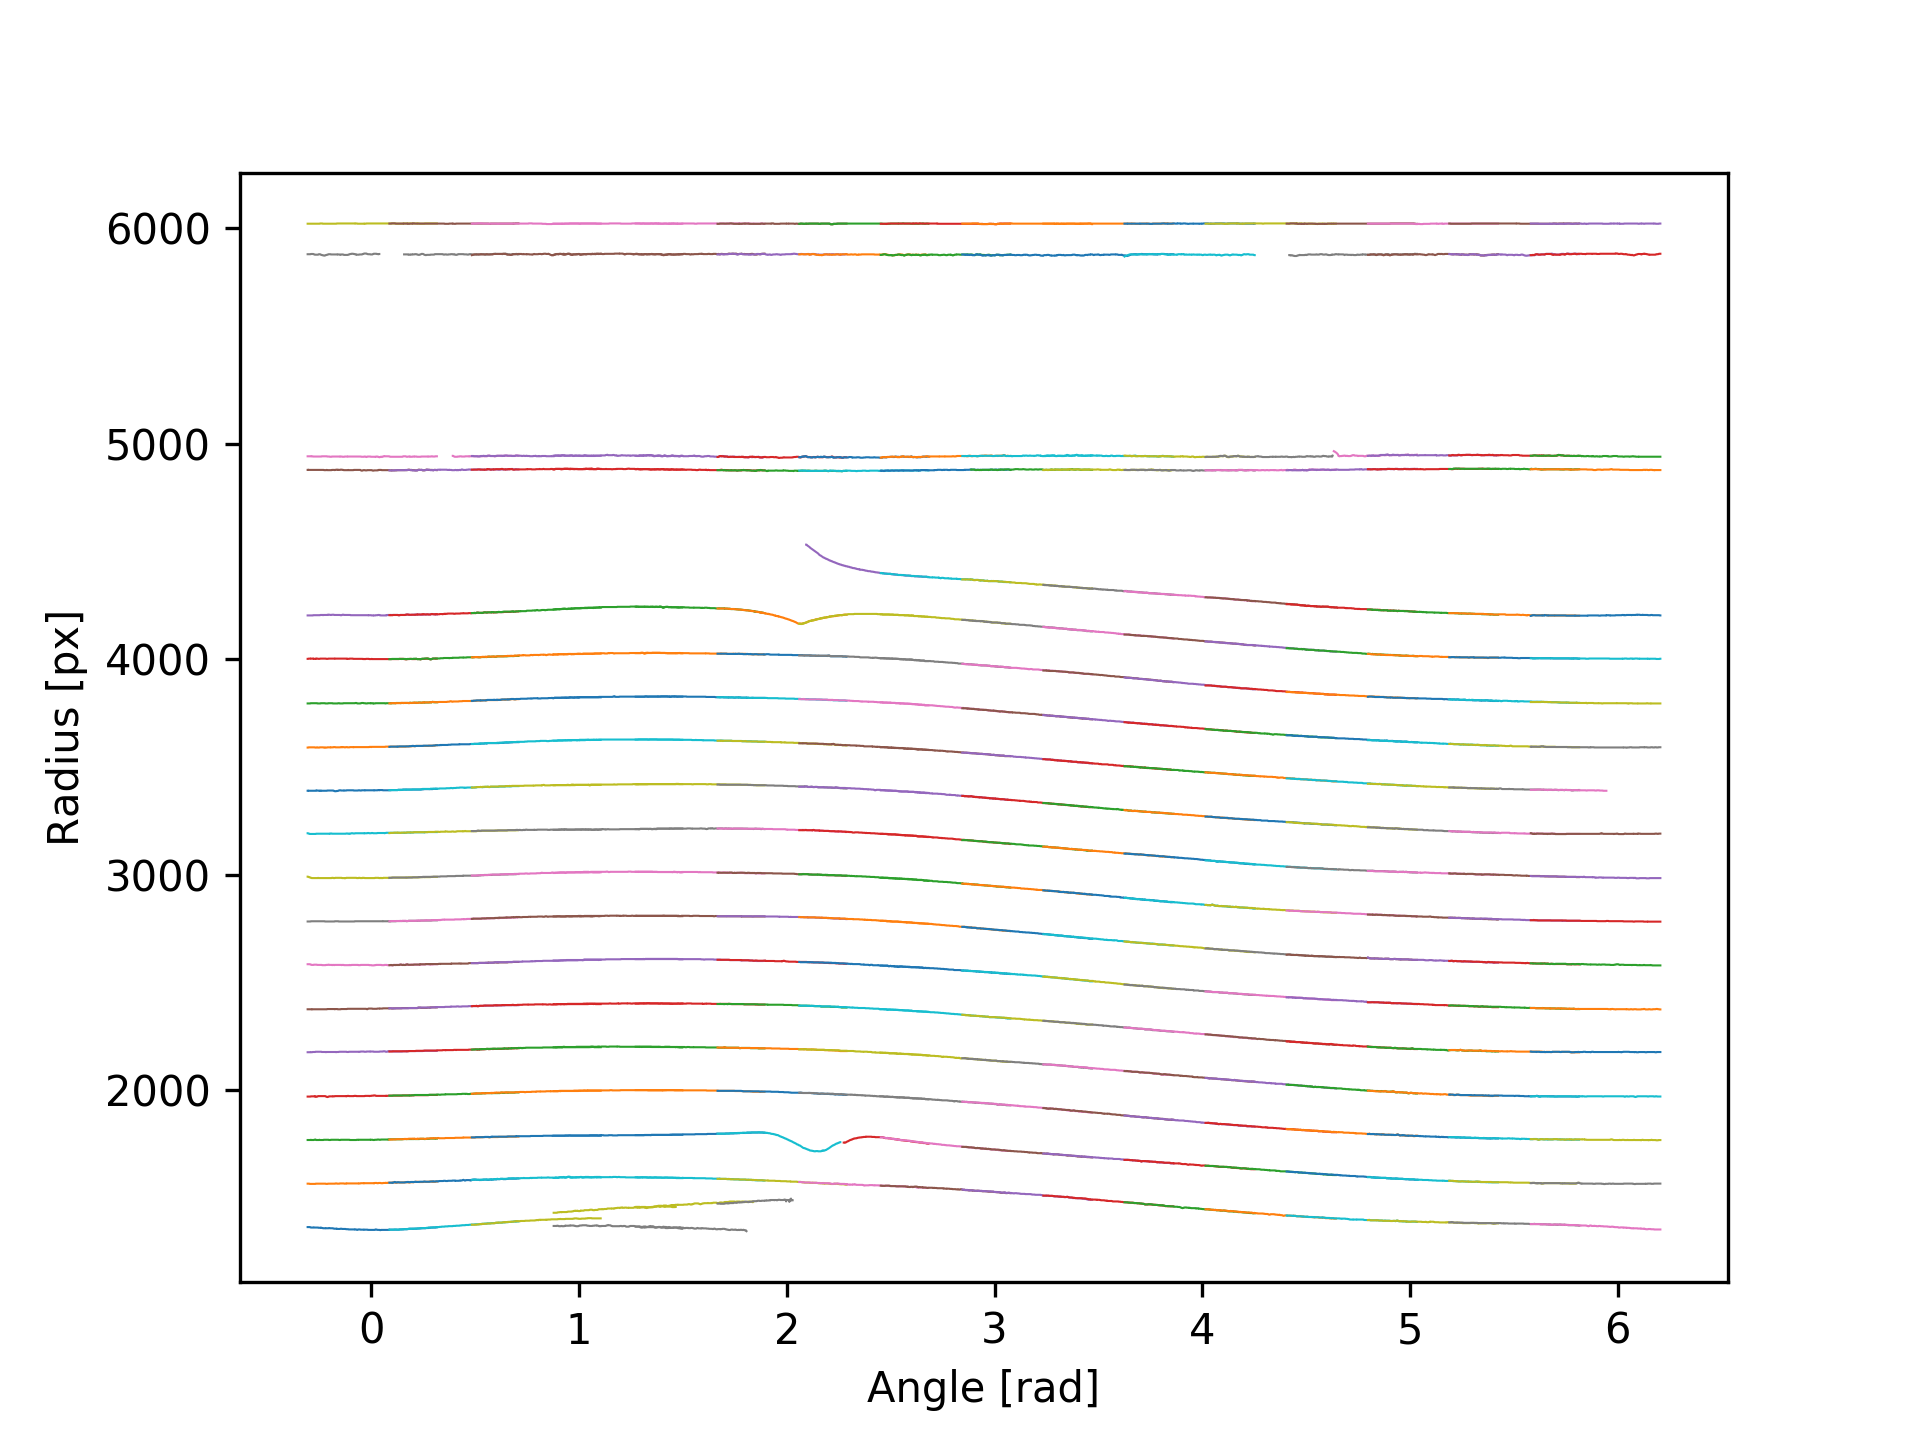
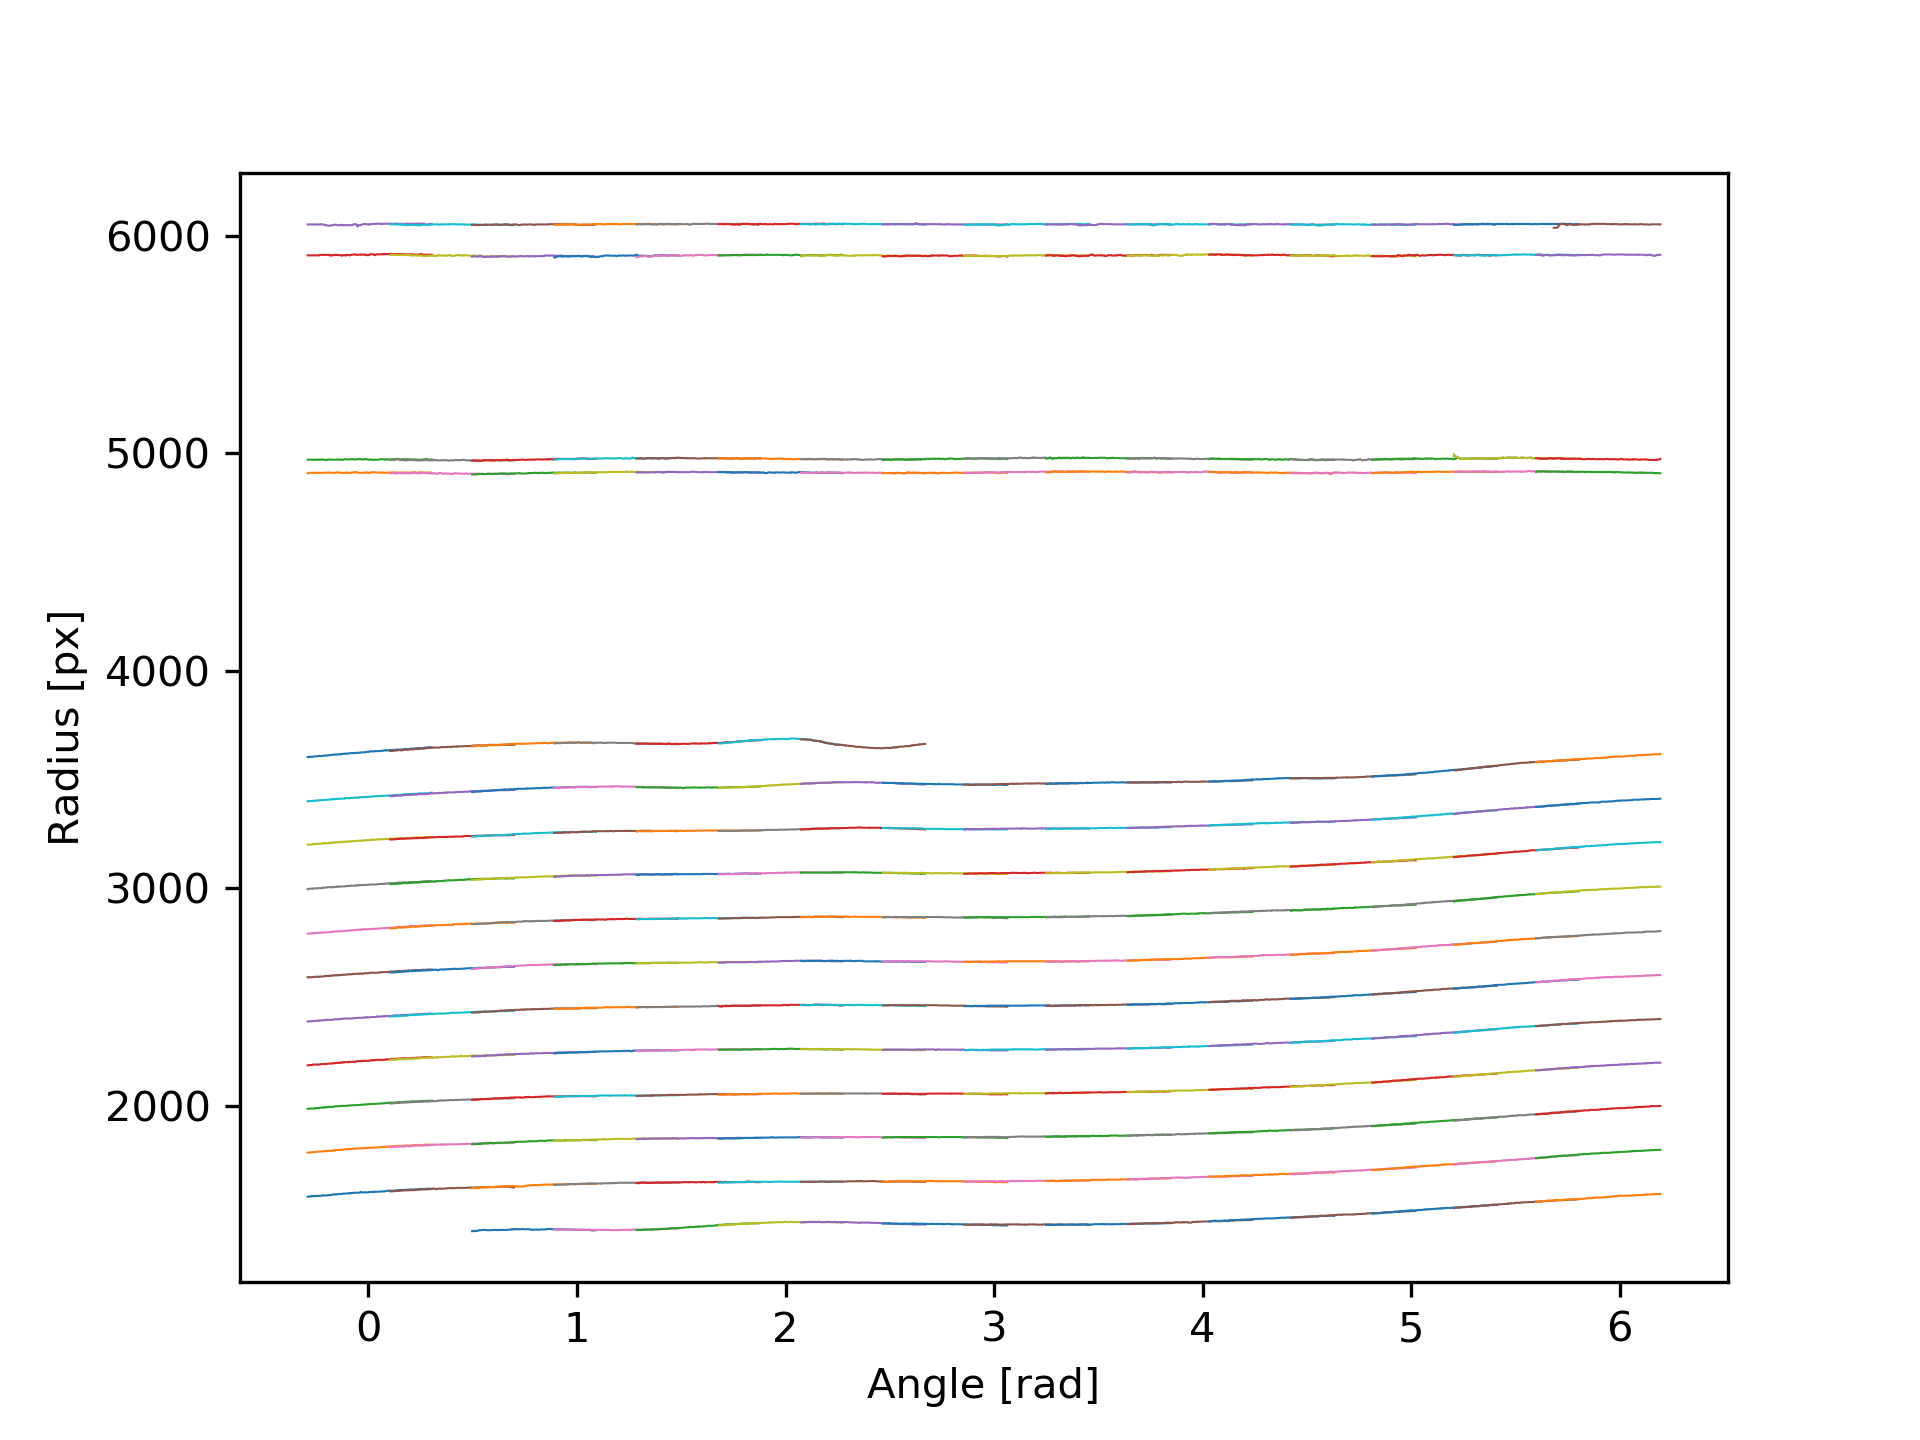
Misc changes

diff --git a/sectorImage/core/stitcher.py b/sectorImage/core/stitcher.py
@@ -147,6 +147,7 @@ class Stitcher:
         plot = True
         segments = [Segment(*coords, identity=i) for i, coords in enumerate(segments)]
         # Calibration piece
+        """
         calib_rs = np.empty(0)
         calib_phis = np.empty(0)
         for i in range(len(self.fns)):
@@ -154,7 +155,9 @@ class Stitcher:
             calib_seg = max(img_segs, key=operator.attrgetter('bandNum'))
             calib_rs = np.append(calib_rs, calib_seg.rs)
             calib_phis = np.append(calib_phis, calib_seg.phis)
-        calib_size_px = np.mean(calib_rs)
+        calib_size_px = np.mean(calib_rs)"""
+
+        calib_size_px = np.mean(np.array([x[2] for x in self.calibration]))
 
         # Dimensions of the calibration piece
         calib_size_mm = self.env.calib_size_mm  # Outer radius of calibration piece
@@ -282,7 +285,7 @@ class Stitcher:
                 compP = np.append(compP, phi)
             order = np.argsort(compP)
             compP = compP[order]
-        scale = 1
+        # scale = 1
         compR = compR[order] * scale
         compP = chirality * compP[::chirality]
         if self.startAngle > compP[0] + (2 * np.pi):

diff --git a/sectorImage/core/midpoints.py b/sectorImage/core/midpoints.py
@@ -156,6 +156,7 @@ class Walker:
         terminations = []
         bands_scanned = 0
         outruns = 0
+        maxdrops = 10
 
         while head[1] < skeleton.shape[1] - 1:
             current = []
@@ -185,9 +186,10 @@ class Walker:
                         high = False
 
                 if edges > 1:
-                    # print('line split termination at', head)
-                    terminations.append(head[:])
-                    break
+                    #print('line split termination at', head)
+                    # terminations.append(head[:])
+                    pass
+                    # break
                 # Start by scanning to the right
                 parity = 1
                 head_ref = head[1]
@@ -203,7 +205,7 @@ class Walker:
                 if n == maxwidth:
                     head[1] = head_ref
                     termination += 1
-                    if termination == 1:
+                    if termination == maxdrops:
                         # print('line outrun termination at ', head)
                         terminations.append(head[:])
                         break

diff --git a/sectorImage/core/image.py b/sectorImage/core/image.py
@@ -163,9 +163,12 @@ class Image:
         # print('Thresholding')
 
         # Threshold to 30% for noise reduction
-        proc *= proc * (1.0 / proc.max())
-        thresh = 0.7
-        thresh = 0.15
+        #proc *= proc * (1.0 / proc.max())
+        # proc *= (1.0 / proc.max())
+        proc_mean = np.mean(proc)
+        proc_std = np.std(proc)
+        thresh = proc_mean + 0.1 * proc_std
+        #thresh = 0.1
         cv2.threshold(src=proc, dst=proc, thresh=thresh, maxval=1, type=cv2.THRESH_BINARY)
 
         # print('Morphology')
@@ -202,7 +205,7 @@ class Image:
             print('Plotting')
             fig = plt.figure()
             ax = fig.add_subplot(111)
-            ax.imshow(start_search)
+            ax.imshow(proc)
             ax.set_aspect('auto')
             ax.set_xlabel('Radius [px]')
             ax.set_ylabel('Angle [idx]')

diff --git a/sectorImage/core/singleImage.py b/sectorImage/core/singleImage.py
@@ -4,6 +4,7 @@ from . import lineParser as lp
 from . import midpoints
 import numpy as np
 import time
+import matplotlib.pyplot as plt
 
 
 class SingleImage:
@@ -67,6 +68,12 @@ class SingleImage:
             parametrized coordinates of the band midpoints
         """
         self.walker = midpoints.Walker(self.features)
+        """fig = plt.figure()
+        ax = fig.add_subplot(111)
+        ax.imshow(self.walker.skeleton)
+        ax.set_aspect('auto')
+        figfn = self.fn.split('.')[0].split('/')[-1] + '.png'
+        fig.savefig(figfn, dpi=1200)"""
         self.r, self.phi = self.walker.walkSkeleton(plot=False, maxwidth=10,)
         return self.r, self.phi
 

diff --git a/hardware/stepper.py b/hardware/stepper.py
@@ -115,12 +115,14 @@ class Stepper:
         return
 
     def continuousRotation(self, t, nTurn=2):
+        self.stepper.enable()
         totalSteps = self.normTurn * self.mode
         speed = int(totalSteps / t)
         self.stepper.set_max_velocity(speed)
         self.stepper.set_steps(totalSteps * nTurn)
         time.sleep(t * nTurn)
         self.stepper.set_max_velocity(self.vmax)
+        self.stepper.disable()
         return
 
     def IPCcallback(self, *params):

diff --git a/applied/sequence.py b/applied/sequence.py
@@ -195,8 +195,10 @@ class Sequence:
     def shuffle(self):
         import random
         nsteps = random.uniform(100, 1600)
+        self.stp.stepper.enable()
         self.stp.stepper.set_steps(int(nsteps))
         time.sleep(2)
+        self.stp.stepper.disable()
 
     def storeSpiral(self, spiral, fn=None):
         phis, rs, scale = spiral

diff --git a/sectorImage/core/calibration.py b/sectorImage/core/calibration.py
@@ -82,7 +82,6 @@ class Calibrator:
         # print('...')
         # print([xc_, yc_])
         # print([xc, yc])
-        plot = True
         if plot:
             fig = plt.figure()
             ax = fig.add_subplot(111)

diff --git a/applied/main.py b/applied/main.py
@@ -9,7 +9,7 @@ from pair import Pair
 
 
 def main():
-    s = Sequence(offsite=True)
+    s = Sequence(offsite=False)
     s.prime()
     pair = s.measure(n=16)
     pair.store()
